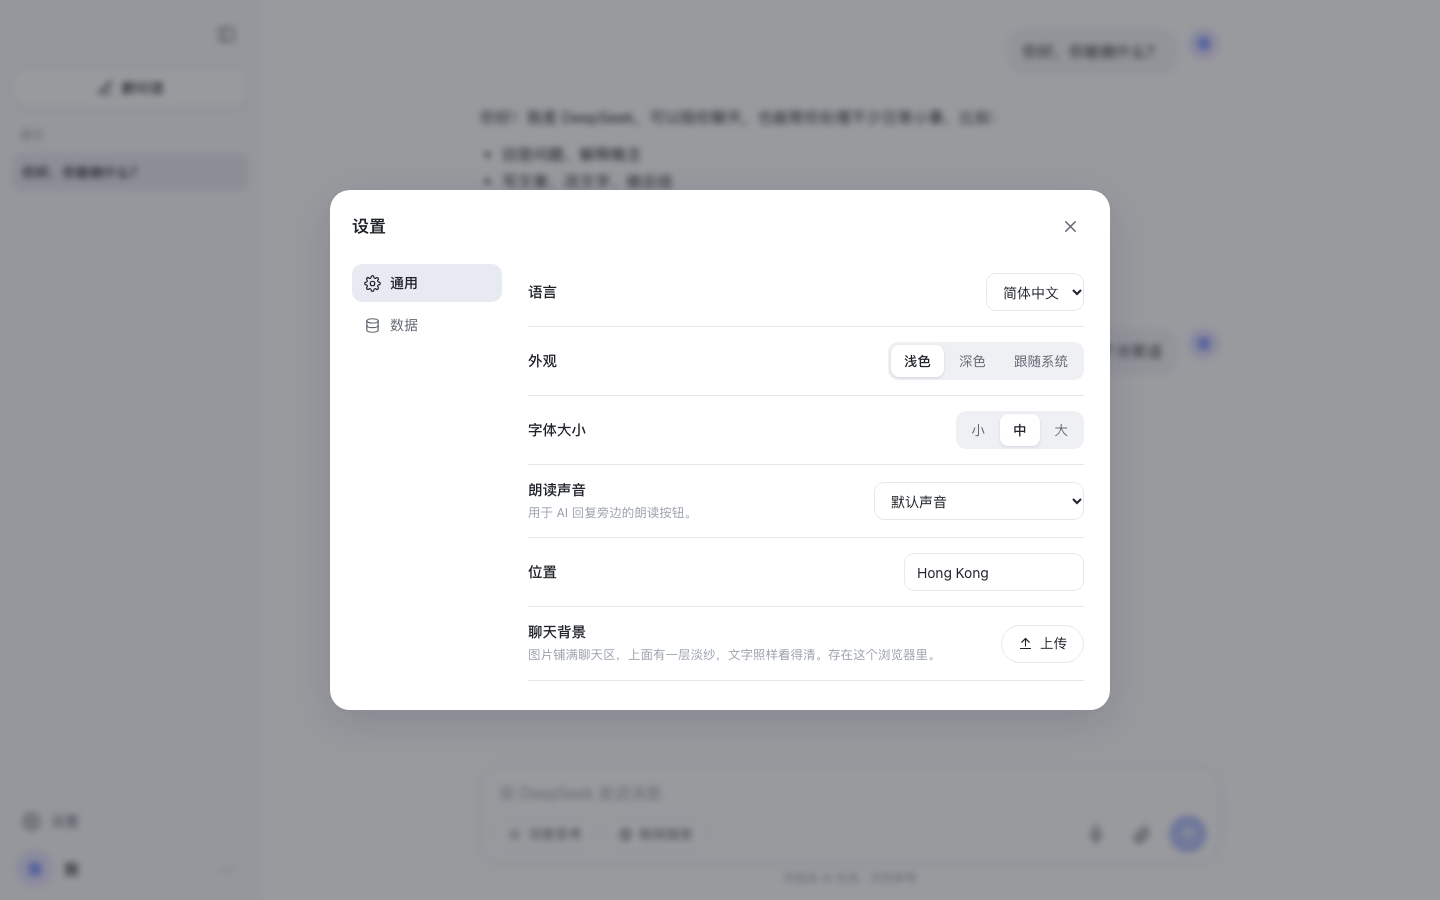
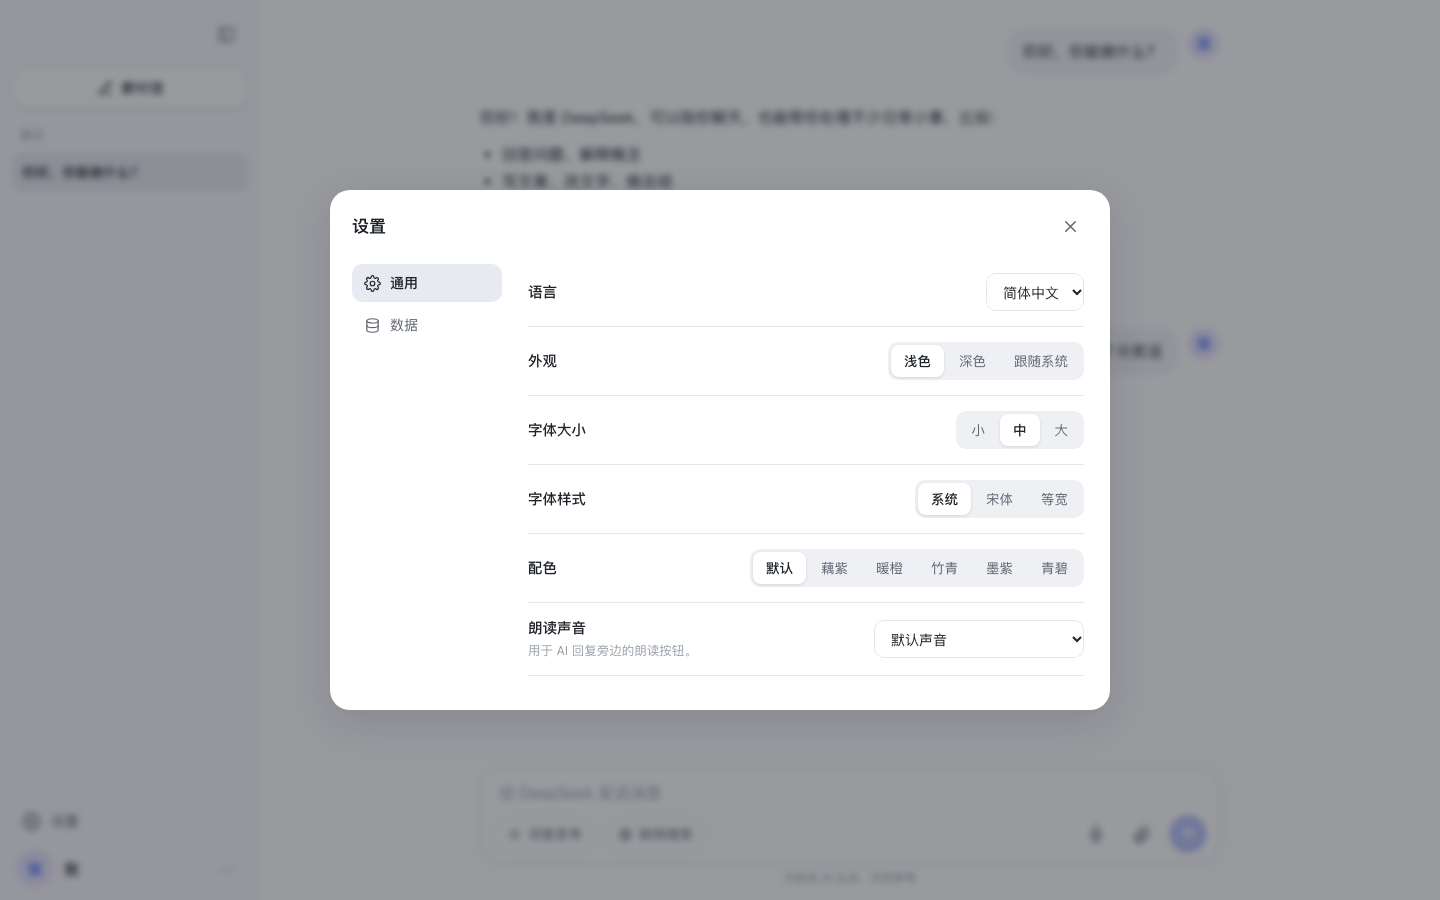
Add typeface and palette presets

diff --git a/index.html b/index.html
@@ -21,6 +21,11 @@
         --danger:#f23f42; --shadow:0 12px 40px rgba(20,24,60,.14);
         --msg-font:15.5px;
       }
+      html[data-palette="catppuccin"]{ --blue:#8839ef; --blue-dark:#7127d6; --blue-soft:#f3eafe; --bg:#eff1f5; --sb-bg:#e9ebf2; --text:#4c4f69; --text-2:#6c6f85; --bubble:#e4e6ef; --border:#d8dbe5; }
+      html[data-palette="ayu"]{ --blue:#f29718; --blue-dark:#c87a12; --blue-soft:#fcebd2; --bg:#fcfcfc; --sb-bg:#f5f4f0; --text:#5c6166; --text-2:#7d8289; --bubble:#f4f3ee; --border:#e5e4de; }
+      html[data-palette="zhuqing"]{ --blue:#00a86b; --blue-dark:#007a4e; --blue-soft:#e3f5ec; --bg:#f7faf8; --sb-bg:#eef4f0; --text:#23342c; --text-2:#5b6c63; --bubble:#ecf3ef; --border:#dde8e1; }
+      html[data-palette="dracula"]{ --blue:#8a50d8; --blue-dark:#6f3bb8; --blue-soft:#efe6fb; --bg:#faf8f2; --sb-bg:#f3f0eb; --text:#282a36; --text-2:#5f6170; --bubble:#f0edf5; --border:#e4e0e8; }
+      html[data-palette="flexoki"]{ --blue:#24837b; --blue-dark:#1c6c66; --blue-soft:#ddf1e4; --bg:#fffcf0; --sb-bg:#f6f3e8; --text:#100f0f; --text-2:#57564f; --bubble:#f0eee4; --border:#e2dfd2; }
       html[data-theme="dark"]{
         --sb-bg:#17181c; --sb-hover:#22242a; --sb-active:#26282f;
         --bg:#1d1e23; --text:#e8e9ec; --text-2:#a6abb6; --text-3:#6f7580;
@@ -32,6 +37,8 @@
       *{ box-sizing:border-box; }
       html,body{ height:100%; }
       body{ margin:0; font-family:-apple-system,BlinkMacSystemFont,"Segoe UI","PingFang SC","Microsoft YaHei",Roboto,Helvetica,Arial,sans-serif; color:var(--text); background:var(--bg); font-size:15px; -webkit-font-smoothing:antialiased; }
+      body.tf-serif{ font-family:"Songti SC","STSong","Source Han Serif SC","Noto Serif SC","Iowan Old Style","Palatino",Georgia,serif; }
+      body.tf-mono{ font-family:"JetBrains Mono","Fira Code",ui-monospace,"SFMono-Regular",Menlo,Consolas,"PingFang SC","Microsoft YaHei",monospace; }
       button{ font:inherit; color:inherit; background:none; border:none; cursor:pointer; min-height:36px; }
       input,select,textarea{ font:inherit; color:inherit; }
       ::-webkit-scrollbar{ width:8px; height:8px; } ::-webkit-scrollbar-thumb{ background:rgba(140,145,160,.35); border-radius:8px; }
@@ -174,6 +181,7 @@
       .seg{ display:inline-flex; background:var(--sb-hover); border-radius:10px; padding:3px; gap:2px; }
       .seg button{ padding:5px 13px; min-height:32px; border-radius:8px; font-size:13.5px; color:var(--text-2); }
       .seg button.active{ background:var(--modal-bg); color:var(--text); font-weight:500; box-shadow:0 1px 3px rgba(20,25,60,.12); }
+      .seg.wrap{ flex-wrap:wrap; }
       .api-input{ width:100%; min-height:44px; border:1px solid var(--border); border-radius:999px; padding:10px 18px; background:var(--input-bg); font-size:14px; margin-top:10px; }
       .api-input:focus{ outline:2px solid var(--blue-soft); border-color:var(--blue); }
       .btn-outline{ display:inline-flex; align-items:center; gap:7px; padding:7px 16px; min-height:38px; border:1px solid var(--border); border-radius:999px; font-size:13.5px; background:var(--modal-bg); white-space:nowrap; }
@@ -355,6 +363,25 @@
               </div>
             </div>
             <div class="set-row">
+              <div><div class="sr-t" data-i18n="typeface">Typeface</div></div>
+              <div class="seg wrap" id="typefaceSeg">
+                <button data-val="system" data-i18n="tfSystem">System</button>
+                <button data-val="serif" data-i18n="tfSerif">Serif</button>
+                <button data-val="mono" data-i18n="tfMono">Mono</button>
+              </div>
+            </div>
+            <div class="set-row">
+              <div><div class="sr-t" data-i18n="palette">Palette</div></div>
+              <div class="seg wrap" id="paletteSeg">
+                <button data-val="default" data-i18n="palDefault">Default</button>
+                <button data-val="catppuccin" data-i18n="palCat">Lavender</button>
+                <button data-val="ayu" data-i18n="palAyu">Amber</button>
+                <button data-val="zhuqing" data-i18n="palZhu">Jade</button>
+                <button data-val="dracula" data-i18n="palDra">Violet</button>
+                <button data-val="flexoki" data-i18n="palFle">Teal</button>
+              </div>
+            </div>
+            <div class="set-row">
               <div>
                 <div class="sr-t" data-i18n="voice">Read-aloud voice</div>
                 <div class="sr-d" data-i18n="voiceD">Used by the speaker button on AI replies.</div>
@@ -449,7 +476,7 @@
       function $(id){ return document.getElementById(id); }
 
       /* ---------- state ---------- */
-      var settings = { lang:"en", appearance:"light", font:"medium", voice:"", location:"Hong Kong" };
+      var settings = { lang:"en", appearance:"light", font:"medium", typeface:"system", palette:"default", voice:"", location:"Hong Kong" };
       try{ var s = JSON.parse(lsGet(LS.settings)||"null"); if(s) settings = Object.assign(settings, s); }catch(e){}
       var chats = [];
       try{ chats = JSON.parse(lsGet(LS.chats)||"[]"); if(!Array.isArray(chats)) chats = []; }catch(e){ chats = []; }
@@ -464,8 +491,8 @@
 
       /* ---------- i18n ---------- */
       var I18N = {
-        en:{ newChat:"New chat", recent:"Recent", settings:"Settings", howHelp:"How can I help you?", deepThink:"DeepThink", search:"Search", general:"General", data:"Data", language:"Language", appearance:"Appearance", light:"Light", dark:"Dark", system:"System", fontSize:"Font size", small:"Small", medium:"Medium", large:"Large", voice:"Read-aloud voice", voiceD:"Used by the speaker button on AI replies.", location:"Location", background:"Chat background", backgroundD:"Your picture fills the chat area under a soft veil, so text stays readable. Saved in this browser.", sbBackground:"Sidebar background", sbBackgroundD:"Your picture fills the sidebar under a soft veil, so the text stays readable. Saved in this browser, separate from the chat background.", sbBgSaved:"Sidebar background saved", sbBgCleared:"Sidebar background removed", upload:"Upload", clear:"Clear", avatarRow:"Profile avatar", avatarRowD:"Shown at the top left and beside your messages. You can also tap the avatar in the sidebar.", apiTitle:"Enter an API Key to get started", apiD:"Get a key at platform.deepseek.com. It is stored only in this browser and sent only to api.deepseek.com.", importT:"Import chat history", importD:"Importing replaces all local chats. Supports the JSON file exported below.", exportT:"Export all chats", exportD:"Includes all chat history and locally stored images. Your API Key is not included.", deleteT:"Delete all chats", delete:"Delete", download:"Download", disclaimer:"AI-generated, for reference only", placeholder:"Message DeepSeek", placeholderMobile:"Enter a message", changeAvatar:"Change avatar", removeAvatar:"Remove avatar", avatarRemoved:"Avatar removed", noChats:"No conversations yet", profile:"My profile", tapAvatar:"Tap avatar to change", thinking:"DeepThink", defaultVoice:"Default voice", storageFull:"Storage is full — oldest data may not save.", needKey:"Add your DeepSeek API Key in Settings → Data first.", bgSaved:"Background saved", bgCleared:"Background removed", avatarSaved:"Avatar updated", deletedAll:"All chats deleted", tapAgain:"Tap again to confirm", exported:"Chats exported", importOk:"Chat history imported", importBad:"That file could not be imported.", copied:"Copied", voiceUnsupported:"Voice input is not supported in this browser.", listening:"Listening… speak now", stop:"Stop", send:"Send" },
-        zh:{ newChat:"新对话", recent:"最近", settings:"设置", howHelp:"有什么可以帮你的？", deepThink:"深度思考", search:"联网搜索", general:"通用", data:"数据", language:"语言", appearance:"外观", light:"浅色", dark:"深色", system:"跟随系统", fontSize:"字体大小", small:"小", medium:"中", large:"大", voice:"朗读声音", voiceD:"用于 AI 回复旁边的朗读按钮。", location:"位置", background:"聊天背景", backgroundD:"图片铺满聊天区，上面有一层淡纱，文字照样看得清。存在这个浏览器里。", sbBackground:"侧边栏背景", sbBackgroundD:"图片铺满侧边栏，上面有一层淡纱，字照样看得清。存在这个浏览器里，和聊天背景分开存。", sbBgSaved:"侧边栏背景已保存", sbBgCleared:"侧边栏背景已清除", upload:"上传", clear:"清除", avatarRow:"我的头像", avatarRowD:"显示在左上角和你发的消息旁边，也可以直接点侧边栏的头像换。", apiTitle:"输入 API Key 开始使用", apiD:"在 platform.deepseek.com 获取。只存在这个浏览器里，只发给 api.deepseek.com。", importT:"导入聊天记录", importD:"导入会替换全部本地对话，支持下方导出的 JSON 文件。", exportT:"导出全部对话", exportD:"包含全部聊天记录和本地图片，不包含你的 API Key。", deleteT:"删除全部对话", delete:"删除", download:"下载", disclaimer:"内容由 AI 生成，仅供参考", placeholder:"给 DeepSeek 发送消息", placeholderMobile:"输入消息", changeAvatar:"更换头像", removeAvatar:"删除头像", avatarRemoved:"头像已删除", noChats:"还没有对话", profile:"我的资料", tapAvatar:"点头像更换", thinking:"深度思考", defaultVoice:"默认声音", storageFull:"浏览器存储满了，旧数据可能存不下。", needKey:"先在 设置 → 数据 里填你的 DeepSeek API Key。", bgSaved:"背景已保存", bgCleared:"背景已清除", avatarSaved:"头像已更新", deletedAll:"已删除全部对话", tapAgain:"再点一次确认", exported:"对话已导出", importOk:"聊天记录已导入", importBad:"这个文件导入不了。", copied:"已复制", voiceUnsupported:"这个浏览器不支持语音输入。", listening:"在听了…开始说吧", stop:"停止", send:"发送" }
+        en:{ newChat:"New chat", recent:"Recent", settings:"Settings", howHelp:"How can I help you?", deepThink:"DeepThink", search:"Search", general:"General", data:"Data", language:"Language", appearance:"Appearance", light:"Light", dark:"Dark", system:"System", fontSize:"Font size", small:"Small", medium:"Medium", large:"Large", voice:"Read-aloud voice", voiceD:"Used by the speaker button on AI replies.", location:"Location", background:"Chat background", backgroundD:"Your picture fills the chat area under a soft veil, so text stays readable. Saved in this browser.", sbBackground:"Sidebar background", sbBackgroundD:"Your picture fills the sidebar under a soft veil, so the text stays readable. Saved in this browser, separate from the chat background.", sbBgSaved:"Sidebar background saved", sbBgCleared:"Sidebar background removed", upload:"Upload", clear:"Clear", avatarRow:"Profile avatar", avatarRowD:"Shown at the top left and beside your messages. You can also tap the avatar in the sidebar.", apiTitle:"Enter an API Key to get started", apiD:"Get a key at platform.deepseek.com. It is stored only in this browser and sent only to api.deepseek.com.", importT:"Import chat history", importD:"Importing replaces all local chats. Supports the JSON file exported below.", exportT:"Export all chats", exportD:"Includes all chat history and locally stored images. Your API Key is not included.", deleteT:"Delete all chats", delete:"Delete", download:"Download", disclaimer:"AI-generated, for reference only", placeholder:"Message DeepSeek", placeholderMobile:"Enter a message", changeAvatar:"Change avatar", removeAvatar:"Remove avatar", avatarRemoved:"Avatar removed", noChats:"No conversations yet", profile:"My profile", tapAvatar:"Tap avatar to change", thinking:"DeepThink", defaultVoice:"Default voice", storageFull:"Storage is full — oldest data may not save.", needKey:"Add your DeepSeek API Key in Settings → Data first.", bgSaved:"Background saved", bgCleared:"Background removed", avatarSaved:"Avatar updated", deletedAll:"All chats deleted", tapAgain:"Tap again to confirm", exported:"Chats exported", importOk:"Chat history imported", importBad:"That file could not be imported.", copied:"Copied", voiceUnsupported:"Voice input is not supported in this browser.", listening:"Listening… speak now", stop:"Stop", send:"Send", typeface:"Typeface", tfSystem:"System", tfSerif:"Serif", tfMono:"Mono", palette:"Palette", palDefault:"Default", palCat:"Lavender", palAyu:"Amber", palZhu:"Jade", palDra:"Violet", palFle:"Teal" },
+        zh:{ newChat:"新对话", recent:"最近", settings:"设置", howHelp:"有什么可以帮你的？", deepThink:"深度思考", search:"联网搜索", general:"通用", data:"数据", language:"语言", appearance:"外观", light:"浅色", dark:"深色", system:"跟随系统", fontSize:"字体大小", small:"小", medium:"中", large:"大", voice:"朗读声音", voiceD:"用于 AI 回复旁边的朗读按钮。", location:"位置", background:"聊天背景", backgroundD:"图片铺满聊天区，上面有一层淡纱，文字照样看得清。存在这个浏览器里。", sbBackground:"侧边栏背景", sbBackgroundD:"图片铺满侧边栏，上面有一层淡纱，字照样看得清。存在这个浏览器里，和聊天背景分开存。", sbBgSaved:"侧边栏背景已保存", sbBgCleared:"侧边栏背景已清除", upload:"上传", clear:"清除", avatarRow:"我的头像", avatarRowD:"显示在左上角和你发的消息旁边，也可以直接点侧边栏的头像换。", apiTitle:"输入 API Key 开始使用", apiD:"在 platform.deepseek.com 获取。只存在这个浏览器里，只发给 api.deepseek.com。", importT:"导入聊天记录", importD:"导入会替换全部本地对话，支持下方导出的 JSON 文件。", exportT:"导出全部对话", exportD:"包含全部聊天记录和本地图片，不包含你的 API Key。", deleteT:"删除全部对话", delete:"删除", download:"下载", disclaimer:"内容由 AI 生成，仅供参考", placeholder:"给 DeepSeek 发送消息", placeholderMobile:"输入消息", changeAvatar:"更换头像", removeAvatar:"删除头像", avatarRemoved:"头像已删除", noChats:"还没有对话", profile:"我的资料", tapAvatar:"点头像更换", thinking:"深度思考", defaultVoice:"默认声音", storageFull:"浏览器存储满了，旧数据可能存不下。", needKey:"先在 设置 → 数据 里填你的 DeepSeek API Key。", bgSaved:"背景已保存", bgCleared:"背景已清除", avatarSaved:"头像已更新", deletedAll:"已删除全部对话", tapAgain:"再点一次确认", exported:"对话已导出", importOk:"聊天记录已导入", importBad:"这个文件导入不了。", copied:"已复制", voiceUnsupported:"这个浏览器不支持语音输入。", listening:"在听了…开始说吧", stop:"停止", send:"发送", typeface:"字体样式", tfSystem:"系统", tfSerif:"宋体", tfMono:"等宽", palette:"配色", palDefault:"默认", palCat:"藕紫", palAyu:"暖橙", palZhu:"竹青", palDra:"墨紫", palFle:"青碧" }
       };
       function t(k){ return (I18N[settings.lang]||I18N.en)[k] || I18N.en[k] || k; }
       function applyPlaceholder(){ var inp = $("inputBox"); if(!inp) return; inp.placeholder = (window.innerWidth <= 720) ? t("placeholderMobile") : t("placeholder"); }
@@ -585,6 +612,19 @@
       document.querySelectorAll("#fontSeg button").forEach(function(b){ b.addEventListener("click", function(){ settings.font = b.getAttribute("data-val"); saveSettings(); applyFont(); }); });
       if(window.matchMedia){ window.matchMedia("(prefers-color-scheme: dark)").addEventListener("change", function(){ if(settings.appearance === "system") applyAppearance(); }); }
 
+      function applyTypeface(){
+        document.body.classList.remove("tf-serif","tf-mono");
+        if(settings.typeface === "serif") document.body.classList.add("tf-serif");
+        if(settings.typeface === "mono") document.body.classList.add("tf-mono");
+        document.querySelectorAll("#typefaceSeg button").forEach(function(b){ b.classList.toggle("active", b.getAttribute("data-val") === settings.typeface); });
+      }
+      function applyPalette(){
+        var p = settings.palette || "default";
+        document.documentElement.setAttribute("data-palette", p);
+        document.querySelectorAll("#paletteSeg button").forEach(function(b){ b.classList.toggle("active", b.getAttribute("data-val") === p); });
+      }
+      document.querySelectorAll("#typefaceSeg button").forEach(function(b){ b.addEventListener("click", function(){ settings.typeface = b.getAttribute("data-val"); saveSettings(); applyTypeface(); }); });
+      document.querySelectorAll("#paletteSeg button").forEach(function(b){ b.addEventListener("click", function(){ settings.palette = b.getAttribute("data-val"); saveSettings(); applyPalette(); }); });
       /* ---------- voices ---------- */
       function loadVoices(){
         var sel = $("voiceSelect"); if(!("speechSynthesis" in window)){ sel.innerHTML = ""; var o = document.createElement("option"); o.textContent = t("defaultVoice"); sel.appendChild(o); return; }
@@ -930,7 +970,7 @@
       /* ---------- init ---------- */
       $("langSelect").value = settings.lang;
       $("locationInput").value = settings.location || "Hong Kong";
-      applyAppearance(); applyFont(); applyLang(); loadVoices();
+      applyAppearance(); applyFont(); applyTypeface(); applyPalette(); applyLang(); loadVoices();
       applyAvatar(); applyBackground(); applySbBackground();
       /* Seed one fixed demo conversation — only on the very first open,
          when there is no local chat history at all. The seeded flag stays

diff --git a/README.md b/README.md
@@ -10,11 +10,13 @@
 | --- | --- |
 | ![默认界面](docs/screenshots/01-overview.png) | ![设置面板](docs/screenshots/02-settings.png) |
 
-![聊天区与侧边栏分别设置背景，薄白纱让文字保持可读](docs/screenshots/03-backgrounds.png)
+| 聊天区与侧边栏分别设置背景，薄白纱让文字保持可读 | 竹青配色 + 宋体字形 |
+| --- | --- |
+| ![独立背景与薄白纱](docs/screenshots/03-backgrounds.png) | ![配色与字体](docs/screenshots/04-palette-font.png) |
 
 ## 这个版本改了什么
 
-界面布局和使用体验复刻自官方 demo，代码是重新写的单文件 HTML。在此基础上加了 6 处外观调整：
+界面布局和使用体验复刻自官方 demo，代码是重新写的单文件 HTML。在此基础上加了 8 处外观调整：
 
 | 调整 | 怎么用 |
 | --- | --- |
@@ -22,6 +24,8 @@
 | 聊天区背景 | 设置 → 通用 → 聊天背景，上传 / 清除 |
 | 侧边栏背景 | 设置 → 通用 → 侧边栏背景，与聊天区互不影响 |
 | 正文字号 | 设置 → 通用 → 字体大小，小 / 中 / 大 三档 |
+| 字体样式 | 设置 → 通用 → 字体样式，系统 / 宋体 / 等宽，均为系统自带字体 |
+| 配色 | 设置 → 通用 → 配色，5 套现成配色，点一下就换 |
 | 薄白纱 | 背景上方一层半透明遮罩，明暗主题各一套，保证文字可读 |
 | 演示对话 | 首次打开自带一段示例对话，不会一进来就是空白页 |
 
@@ -33,7 +37,7 @@
 
 1. 仓库右上角 **Code → Download ZIP**，解压。
 2. 双击 `index.html`，用 Chrome / Edge / Safari 打开。
-3. 直接就能看到演示对话；换头像、换背景、调字号都在左下角 **设置** 里。
+3. 直接就能看到演示对话；换头像、换背景、调字号、换字体、换配色都在左下角 **设置** 里。
 4. 想真的和模型对话：在 [platform.deepseek.com](https://platform.deepseek.com) 申请 API Key，打开 **设置 → 数据** 填入。Key 只存在当前浏览器，只发给 `api.deepseek.com`。
 
 不需要 Node.js、不需要 npm、不需要构建、不需要服务器。
@@ -41,7 +45,7 @@
 ## 继续二次开发
 
 - 本地预览：`python3 -m http.server 8000` → `http://localhost:8000`
-- 样式：全部在 `index.html` 的 `<style>` 里；`--veil` / `--sb-veil` 控制白纱，`--msg-font` 控制字号
+- 样式：全部在 `index.html` 的 `<style>` 里；`--veil` / `--sb-veil` 控制白纱，`--msg-font` 控制字号，`html[data-palette]` 控制配色，`body.tf-*` 控制字体栈
 - 文案：`<script>` 里的 `i18n` 字典，中英两份
 - 唯一的外部请求是 `https://api.deepseek.com/chat/completions`。**无第三方库、无 CDN、无外部字体 / 图片**，字体走系统字体栈；语音朗读与输入用浏览器自带 Web Speech API
 
@@ -52,7 +56,7 @@
 | 原项目 | [deepseek-ai/chat-demo](https://github.com/deepseek-ai/chat-demo)，2026-11-13 开源，MIT License |
 | 本仓库 | 独立新建的二次开发仓库，**不是 fork**，不隶属于 DeepSeek |
 | 复刻 | 官方 demo 的整体界面布局与使用体验 |
-| 重写 / 新增 | 单文件 HTML 实现；上表 6 项外观调整 |
+| 重写 / 新增 | 单文件 HTML 实现；上表 8 项外观调整 |
 | 未移植 | 官方 demo 的完整功能集（见「范围说明」） |
 
 作者：[flowwaterrr](https://github.com/flowwaterrr)。
@@ -60,6 +64,8 @@
 ## 鸣谢与许可
 
 感谢 DeepSeek 开源 [chat-demo](https://github.com/deepseek-ai/chat-demo)。原项目版权 `Copyright (c) 2026 DeepSeek`，采用 MIT License；完整许可文本见 [LICENSE](LICENSE)，本仓库已按 MIT 要求保留原版权声明与许可通知。本仓库重写与新增部分同样以 MIT License 发布。
+
+字体栈与配色参考了几个公开的主题项目：[whyihaveyou/dsh-themes](https://github.com/whyihaveyou/dsh-themes)（Catppuccin / Ayu / Dracula / Flexoki 色值）、[nevertoday/dsh-theme-plugin](https://github.com/nevertoday/dsh-theme-plugin)（中国传统色「竹青」）、[webkubor/dsh-bloom-theme](https://github.com/webkubor/dsh-bloom-theme)（宋体栈）、[EdgeTypE/better-deepseek](https://github.com/EdgeTypE/better-deepseek)（等宽栈）。这些项目用的也都是系统自带字体，本仓库同样只写字体名，不加载也不打包任何字体文件。
 
 第三方依赖声明：前端零第三方库、零 CDN、零外部字体与图片；运行时仅调用使用者自行配置的 DeepSeek API，语音能力由浏览器提供。上游第三方依赖各自的许可请以[原项目](https://github.com/deepseek-ai/chat-demo)为准。
 
